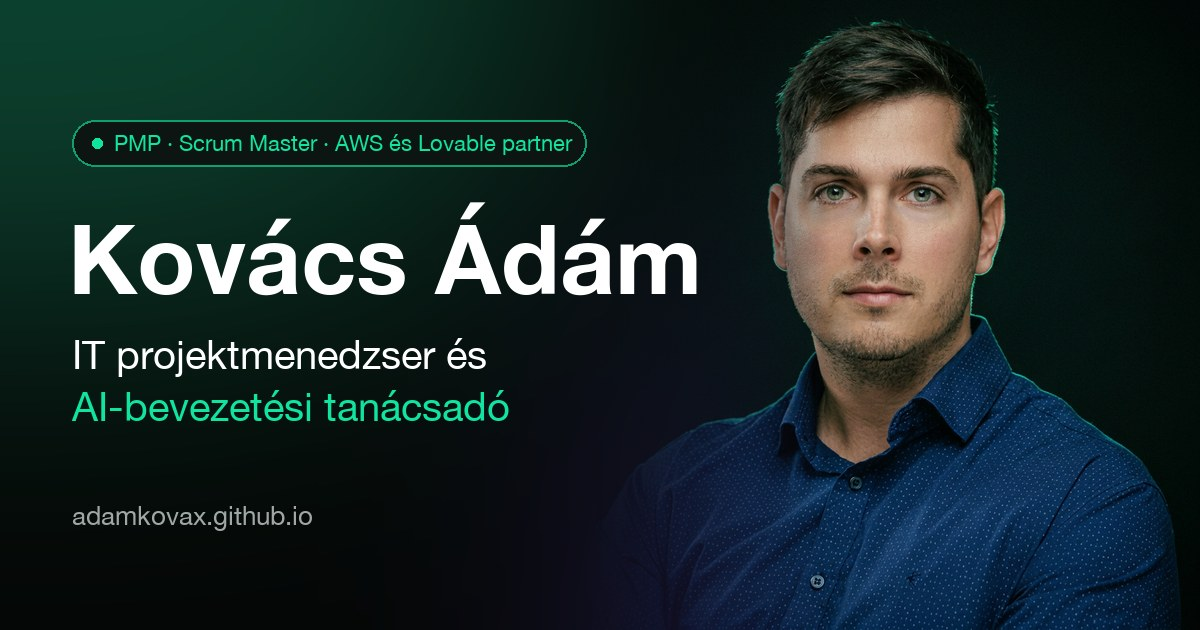
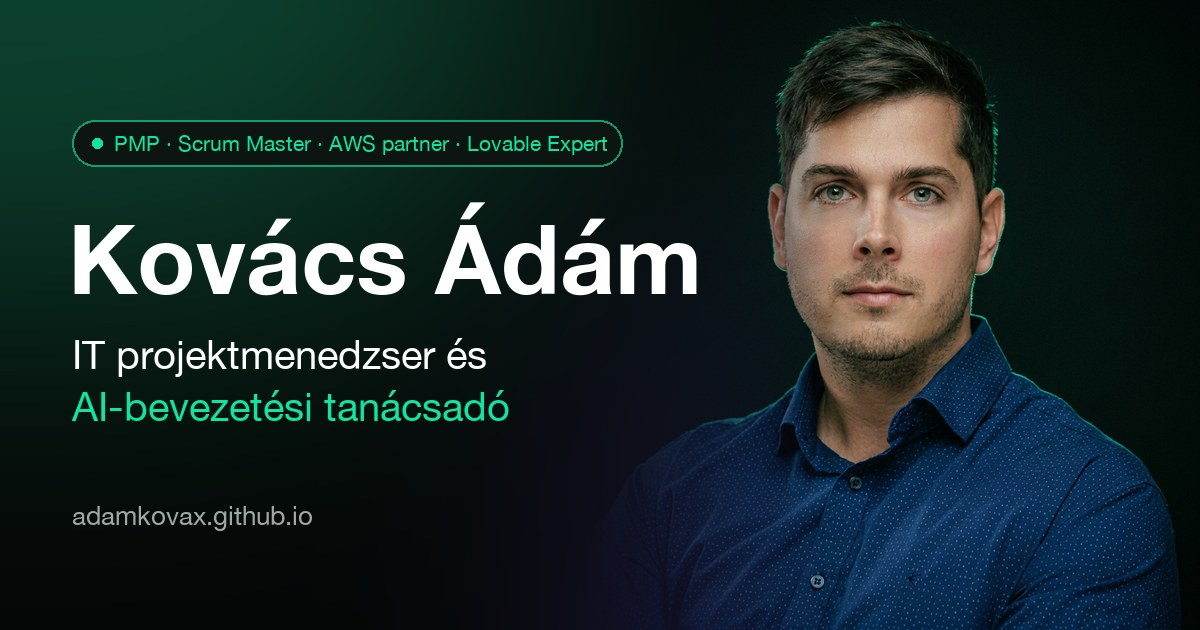
Lovable Expert minősítés a Lovable Partner helyett

Changed region(s): [[0.0925, 0.181, 0.5242, 0.2714]]

diff --git a/src/content/hu.ts b/src/content/hu.ts
@@ -62,7 +62,7 @@ export const hu = {
   menuLabel: "Menü",
 
   hero: {
-    badge: "PMP · Accredited Scrum Master · AWS és Lovable partner",
+    badge: "PMP · Accredited Scrum Master · AWS partner · Lovable Expert",
     name: "Kovács Ádám",
     role: "IT projektmenedzser és AI‑bevezetési tanácsadó",
     leadBefore: "Az első ügyféltalálkozótól a számlázásig végigviszem a projekteket, ",
@@ -450,8 +450,8 @@ export const hu = {
       { icon: BadgeCheck, title: "PMP", subtitle: "Project Management Professional · PMI" },
       {
         icon: BadgeCheck,
-        title: "Lovable Partner",
-        subtitle: "Lovable · 2026. szeptember",
+        title: "Lovable Expert",
+        subtitle: "Lovable Partner Program · 2026. szeptember",
         logo: { src: "/logos/lovable-icon.svg", treatment: "color" },
         isNew: true,
       },
